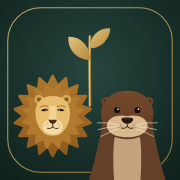
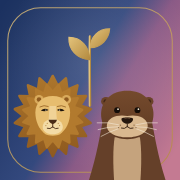
Titi en bleu, Loulou en rose
- Médaillon du lion bleu nuit, médaillon de la loutre rose ancien
- Icône avec un fond qui passe du bleu au rose
- Couleurs de profil par défaut bleu / rose, avec migration des anciennes

Claude-Session: https://claude.ai/code/session_01Fn7en9yxJ9HS3qn4jvDQep

diff --git a/js/app.js b/js/app.js
@@ -44,7 +44,7 @@
   /* Emblèmes dessinés (img/*.svg), utilisables comme avatar à la place d'un emoji. */
   const EMBLEMES = { lion: { label: "Lion", src: "img/lion.svg" }, loutre: { label: "Loutre", src: "img/loutre.svg" } };
   const AVATARS = ["lion", "loutre", "🦁", "🐻", "🐰", "🦊", "🐼", "🐯", "🐨", "🐸", "🦄", "🐳", "🐥", "🐶", "🐱", "🦋"];
-  const COULEURS = ["#c9a45c", "#8b5a38", "#f59e0b", "#8b5cf6", "#10b981", "#ef4444", "#3b82f6", "#ec4899"];
+  const COULEURS = ["#3f6fb5", "#d0799a", "#c9a45c", "#8b5a38", "#f59e0b", "#8b5cf6", "#10b981", "#ef4444", "#3b82f6", "#ec4899"];
 
   const SUBS = {
     motricite: { interieur: "🏠 Intérieur", exterieur: "🌳 Extérieur", aquatique: "💧 Dans l'eau" },
@@ -74,7 +74,7 @@
   }
 
   function defaultState() {
-    return { version: 1, enfants: [newChild("Titi", "lion", "#c9a45c"), newChild("Loulou", "loutre", "#8b5a38")], journal: [], favoris: [], routines: [], routineLog: {}, bibliotheque: [], defis: {} };
+    return { version: 1, enfants: [newChild("Titi", "lion", "#3f6fb5"), newChild("Loulou", "loutre", "#d0799a")], journal: [], favoris: [], routines: [], routineLog: {}, bibliotheque: [], defis: {} };
   }
 
   function migrate(s) {
@@ -83,8 +83,11 @@
     out.enfants = out.enfants.map(e => Object.assign(newChild(e.nom || "Enfant", e.emoji || "🐥", e.couleur || COULEURS[2]), e));
     // Anciens avatars emoji de Titi et Loulou → nouveaux emblèmes dessinés
     out.enfants.forEach(e => {
-      if (e.emoji === "🦁") { e.emoji = "lion"; if (e.couleur === "#f59e0b") e.couleur = "#c9a45c"; }
-      if (e.nom === "Loulou" && e.emoji === "🐻") { e.emoji = "loutre"; if (e.couleur === "#8b5cf6") e.couleur = "#8b5a38"; }
+      if (e.emoji === "🦁") e.emoji = "lion";
+      if (e.nom === "Loulou" && e.emoji === "🐻") e.emoji = "loutre";
+      // Couleurs par défaut d'origine → bleu pour le lion, rose pour la loutre
+      if (e.emoji === "lion" && ["#f59e0b", "#c9a45c"].includes(e.couleur)) e.couleur = "#3f6fb5";
+      if (e.emoji === "loutre" && ["#8b5cf6", "#8b5a38"].includes(e.couleur)) e.couleur = "#d0799a";
     });
     const obj = v => (v && typeof v === "object" && !Array.isArray(v)) ? v : {};
     out.routines = Array.isArray(s.routines) ? s.routines : [];

diff --git a/css/style.css b/css/style.css
@@ -323,7 +323,7 @@ dialog.kid #modal-body { max-height: 100vh; height: 100%; }
 
 /* ─── Emblèmes dessinés ─── */
 .emb { display: block; width: 100%; height: 100%; }
-.avatar.img { padding: 0; overflow: hidden; background: #132822; border-width: 2px; }
+.avatar.img { padding: 0; overflow: hidden; background: var(--c); border-width: 2px; }
 .inline-emb { display: inline-block; width: 1.4em; height: 1.4em; vertical-align: -.35em; }
 .inline-emb .emb { border-radius: 50%; }
 .avatar-choice span { display: grid; place-items: center; min-width: 40px; height: 40px; padding: 0 8px !important; font-size: 1.3rem; }

diff --git a/sw.js b/sw.js
@@ -1,5 +1,5 @@
 /* Cache hors-ligne : l'application fonctionne sans connexion une fois ouverte. */
-const CACHE = "grandir-v4";
+const CACHE = "grandir-v5";
 const FICHIERS = ["./", "index.html", "css/style.css", "js/activities.js", "js/reperes.js", "js/famille-data.js", "js/app.js", "manifest.webmanifest", "icon.svg", "icon-192.png", "icon-512.png", "apple-touch-icon.png", "img/lion.svg", "img/loutre.svg"];
 
 self.addEventListener("install", e => {
